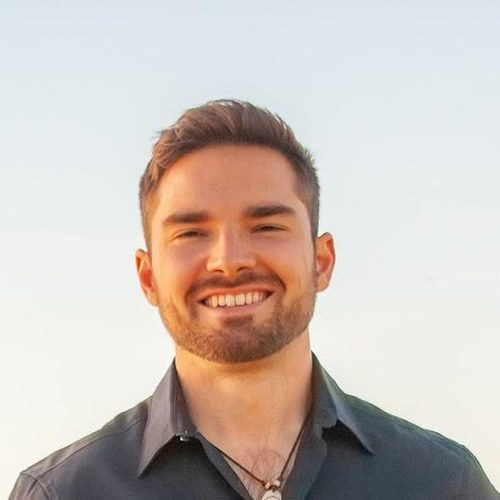
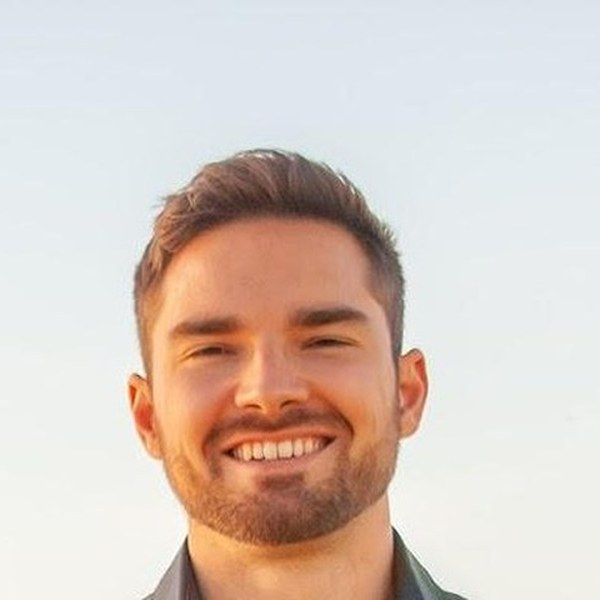
feat: add all team photos, face-crop for consistency, add Gayle Borst + Jean-Marc
- Downloaded 11 new headshots from Drive (Amanda Williams, Nico, Tony Cho,
  Eric Amyot, Adelle York, Gayle Borst, Adam Russell, Jared Gossett, Mary Mandel,
  Kacee Jackson, Jean-Marc La Flamme)
- Cropped ALL 21 team photos to consistent 600x600 face-centered squares via Pillow
  (manual face-center coordinates per photo to ensure full faces, similar sizing)
- Wired photos into all partner cards that previously showed initials placeholders
- Updated Amanda Williams photo to new Drive image (amanda-williams.jpg)
- Added Gayle Borst (Regenerative Design Architect) to Partners with photo
- Added Jean-Marc La Flamme (Geoship, Crowdfunding) to Partners with photo

diff --git a/src/app/team/page.tsx b/src/app/team/page.tsx
@@ -137,7 +137,7 @@ const CORE_TEAM = [
   },
   {
     name: 'Amanda Williams',
-    photo: '/images/team/amanda-william.jpg',
+    photo: '/images/team/amanda-williams.jpg',
     role: 'Wellness Program Coordinator',
     shortBio: 'eXp Realty Top 1% STR/MTR specialist and CEO of Carolina Furnished Rentals, with 15+ years in real estate investing, hospitality, and wellness experience design.',
     bio: 'eXp Realty Top 1% STR/MTR specialist and CEO of Carolina Furnished Rentals, with 15+ years in real estate investing, flipping, rental operations, and hospitality. Leads Abundancia\'s wellness programming and high-touch guest journey development — from retreat offerings to biohacking experiences and strategic wellness partnerships.',
@@ -213,7 +213,7 @@ const PARTNERS = [
   },
   {
     name: 'Kacee Jackson',
-    photo: undefined,
+    photo: '/images/team/kacee-jackson.jpg',
     org: '360 Company',
     focus: 'Development Advisory',
     detail: '25 years and 400+ Texas real estate projects. Currently leading Stonebrush — an 817-home Bastrop master-planned community with $52M in MUD bond reimbursements. Kacee brings unmatched expertise in MUD bond financing, builder attraction, and Bastrop County permitting directly applicable to Abundancia.',
@@ -229,7 +229,7 @@ const PARTNERS = [
   },
   {
     name: 'Jared Gossett',
-    photo: undefined,
+    photo: '/images/team/jared-gossett.png',
     org: 'Independent',
     focus: 'Luxury Home Building',
     detail: "Austin's #1 luxury builder by volume with 170+ homes built and 2X Austin Custom Home Builder of the Year. Creator of the Legacy Living™ wellness-home program, integrating craftsmanship with health-forward design principles aligned with Abundancia's vision.",
@@ -237,7 +237,7 @@ const PARTNERS = [
   },
   {
     name: 'Adelle York',
-    photo: undefined,
+    photo: '/images/team/adelle-york.jpg',
     org: 'Plural Office',
     focus: 'Passive House Architecture',
     detail: 'Harvard GSD-trained and PHIUS-certified for passive house design, with active projects across 6+ US states. Adelle specializes in creating ecological single-family and mixed-use projects that meet the most rigorous energy performance standards while remaining beautiful and livable.',
@@ -245,7 +245,7 @@ const PARTNERS = [
   },
   {
     name: 'Adam Russell',
-    photo: undefined,
+    photo: '/images/team/adam-russell.jpg',
     org: 'Stewardship, Inc.',
     focus: 'Regenerative Land Design',
     detail: "Austin's hempcrete architect with dual degrees in Architecture (UT Austin) and Biology (U of Illinois). President/CEO of Stewardship, Inc. and Chairman of Design.Build.Live. Adam integrates ecological systems thinking into every built environment, making him a natural fit for Abundancia's hempcrete construction vision.",
@@ -253,7 +253,7 @@ const PARTNERS = [
   },
   {
     name: 'Mary Mandel',
-    photo: undefined,
+    photo: '/images/team/mary-mandel.jpg',
     org: 'Olympus Foundation',
     focus: 'Development Advisory',
     detail: '2x successful exits with a career spanning private equity, angel investing, and LP positions in top-tier funds. Co-founder of Sanctuary. Founder of the Olympus Foundation. Mary brings a rare combination of capital markets sophistication and values-aligned investing to Abundancia.',
@@ -261,7 +261,7 @@ const PARTNERS = [
   },
   {
     name: 'Nico Scegiel',
-    photo: undefined,
+    photo: '/images/team/nico-scegiel.jpg',
     org: 'Santé / Marché Market ATX',
     focus: 'Regenerative Food Systems',
     detail: 'Founder of Santé organic fine-dining restaurant and Marché Market ATX. Stanford-certified health coaching credentials and a lifelong commitment to hospitality and food systems. Nico leads Abundancia\'s farm-to-table dining and wellness food programming.',
@@ -269,7 +269,7 @@ const PARTNERS = [
   },
   {
     name: 'Eric Amyot',
-    photo: undefined,
+    photo: '/images/team/eric-amyot.jpg',
     org: 'Oliizoi / RegenEarth Studio',
     focus: 'Regenerative Development',
     detail: 'Founder of the Keystone Species ecosystem — Oliizoi (regenerative real estate), issho (modular housing), and RegenEarth Studio. Leads a team with nearly 200 years of combined experience in regenerative development, capital, and media.',
@@ -277,11 +277,27 @@ const PARTNERS = [
   },
   {
     name: 'Tony Cho',
-    photo: undefined,
+    photo: '/images/team/tony-cho.jpg',
     org: 'Metro 1 / Future of Cities',
     focus: 'Retreat Center Advisory',
     detail: 'Founder of Metro 1 ($3.5B in real estate), the Wynwood Art District, Future of Cities, and Magic City Innovation District in Miami. Urban Land Institute Young Leader of the Year. Tony brings world-class placemaking and destination development expertise to Abundancia\'s retreat center vision.',
     role: 'Retreat center and destination advisory — placemaking, mixed-use programming, and experience design.',
+  },
+  {
+    name: 'Gayle Borst',
+    photo: '/images/team/gayle-borst.jpg',
+    org: 'Independent',
+    focus: 'Regenerative Design Architecture',
+    detail: 'Regenerative design architect integrating ecological systems thinking, biophilic principles, and sustainable materials into built environments. Gayle brings a holistic approach to architecture that honors the relationship between structures and the living systems that surround them.',
+    role: 'Regenerative architectural design — ensuring community structures are in harmony with the land and its ecology.',
+  },
+  {
+    name: 'Jean-Marc La Flamme',
+    photo: '/images/team/jean-marc-la-flamme.jpg',
+    org: 'Geoship',
+    focus: 'Crowdfunding & Capital Strategy',
+    detail: 'Crowdfunding strategist with $30M+ raised through platforms like DealMaker and WeFunder. Co-founder at Geoship, bringing deep expertise in community-funded real estate and regenerative project finance. Jean-Marc helps Abundancia access a new generation of values-aligned investors through equity crowdfunding.',
+    role: 'Crowdfunding strategy and DealMaker platform advisor — expanding Abundancia\'s investor base beyond accredited investors.',
   },
 ]
 
